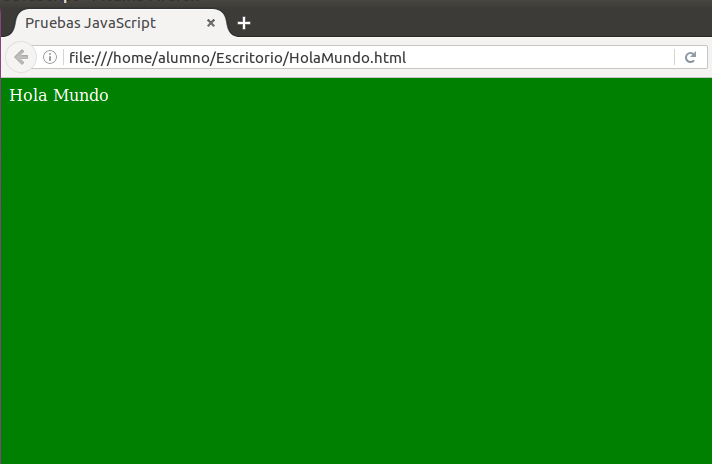
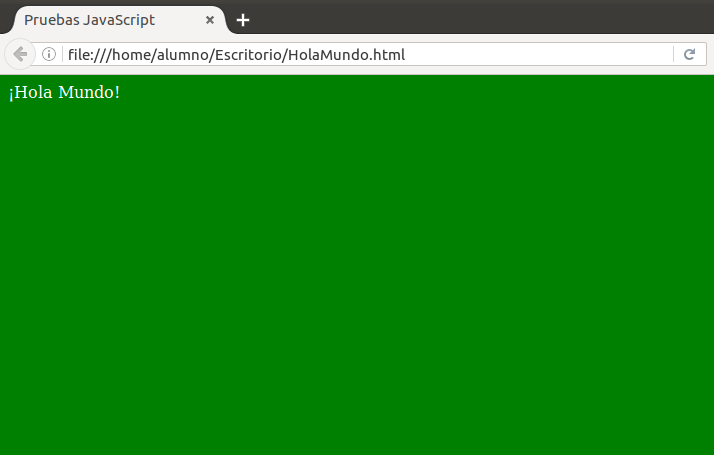
Añadido Hola Mundo

Changed region(s): [[0.0, 0.0, 1.0, 0.2462]]

diff --git a/README.md b/README.md
@@ -57,7 +57,7 @@ Para hacer los ejercicios hemos usado netbeans, aunque JavaScript se puede progr
 Realiza un programa que muestre por pantalla la frase **¡Hola mundo!**.
 
 ```java
-    document.write("Hola Mundo");
+    document.write("¡Hola Mundo!");
 ```
 <img src="imagenes/HolaMundo.png" width="350px">
 ### 2. Pirámide
